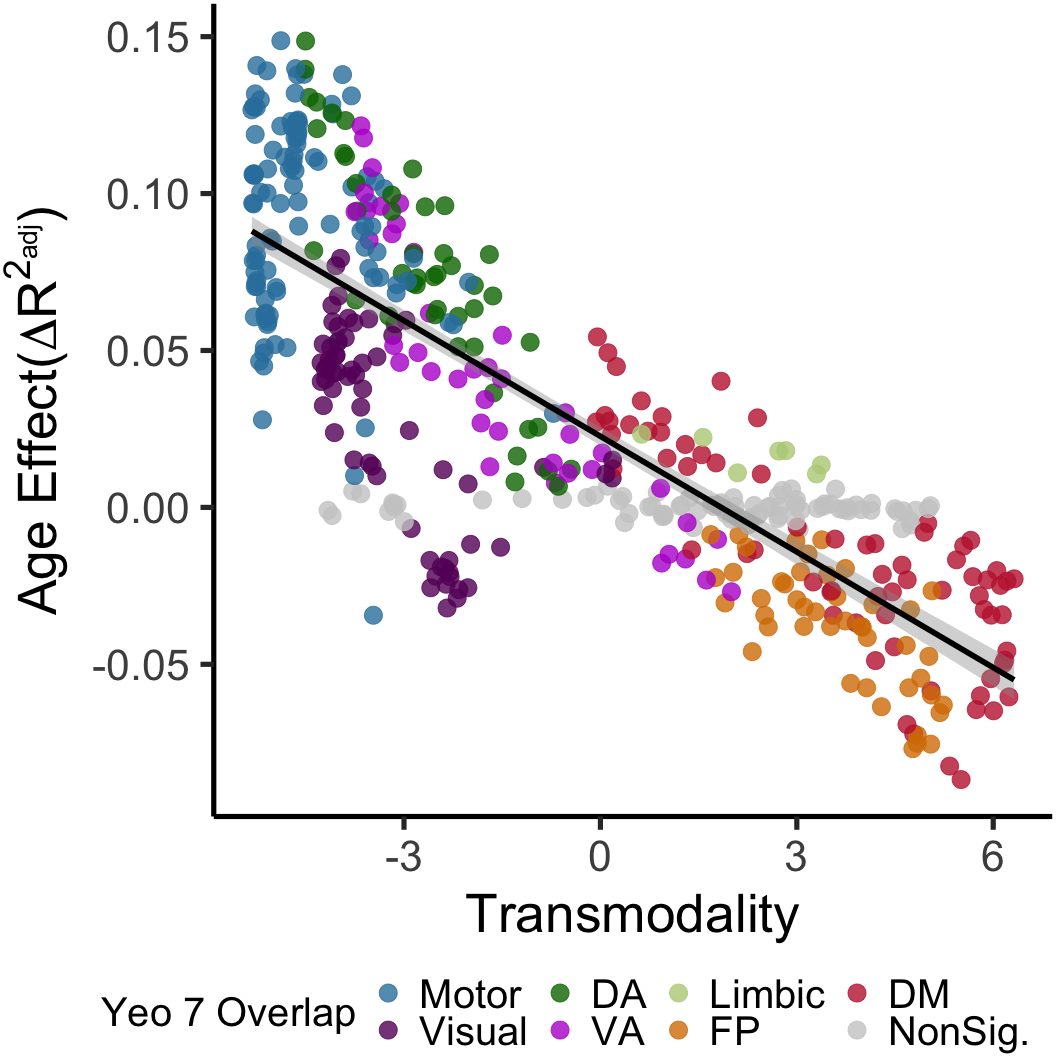
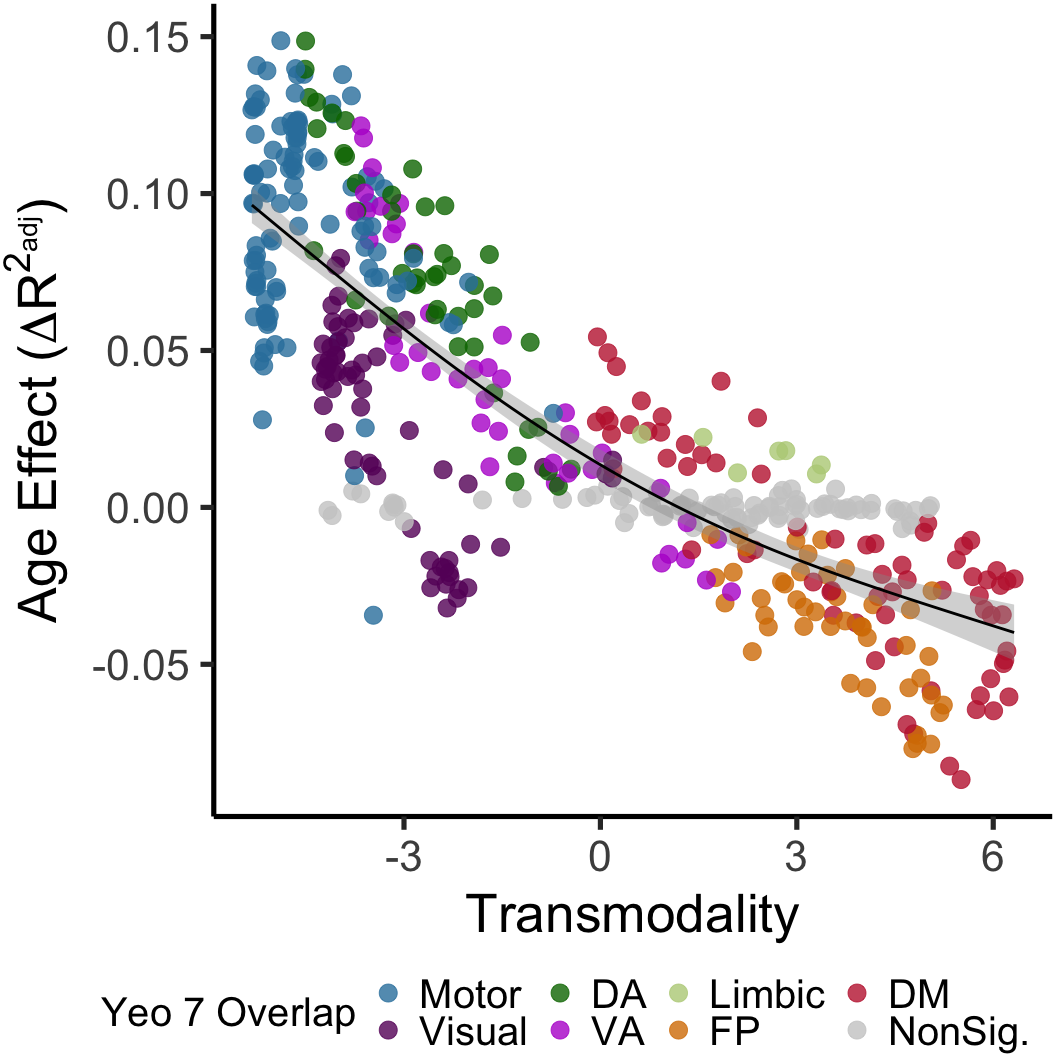
md updates - .rmd printout of averaged net-level age effects, sizing fixes, edge-level

Changed region(s): [[0.3438, 0.2812, 0.9688, 0.6562], [0.0, 0.1875, 0.0625, 0.5938], [0.2188, 0.1875, 0.3438, 0.2812]]

diff --git a/scripts/analyses/Network-level-age.md b/scripts/analyses/Network-level-age.md
@@ -330,6 +330,7 @@ covariates=" ~s(Age,k=3)+Sex+Motion"
 minAgeEst<-rep(0,length=length(masterdf[,indiv_nsegcols_ind]))
 maxAgeEst<-rep(0,length=length(masterdf[,indiv_nsegcols_ind]))
 SplineP<-rep(0,length=length(masterdf[,indiv_nsegcols_ind]))
+Avg_BW_Vector<-rep(0,length=length(masterdf[,indiv_nsegcols_ind]))
 InterceptVector10<-rep(0,length=length(masterdf[,indiv_nsegcols_ind]))
 InterceptVector21<-rep(0,length=length(masterdf[,indiv_nsegcols_ind]))
 derivInfo<-array(0,dim=c(464,200))
@@ -367,7 +368,9 @@ for (i in 1:(length(bwAvgCondf)-3)){
   form<-as.formula(paste("",x,"", covariates, sep=""))
   igam<-gam(formula = form,data=bwAvgCondf)
   SplineP[i]<-summary(igam)$s.pv
-  # changed to get intercept at 10 and 20 years old
+  # get average b/w con
+  Avg_BW_Vector[i]<-mean(bwAvgCondf[,i])
+  # get intercept at 10 and 21 years old
   InterceptVector10[i]<-predict.gam(igam,gamPredictMeAt10)
   InterceptVector21[i]<-predict.gam(igam,gamPredictMeAt21)
   derv<-derivatives(igam,term='Age')
@@ -408,15 +411,20 @@ bwdf$domnetvecSig[NL_sigVec]<-as.character(bwdf$domnetvec[NL_sigVec])
 # order for plot legend
 bwdf$domnetvecSig<-as.factor(bwdf$domnetvecSig)
 bwdf$domnetvecSig<-factor(bwdf$domnetvecSig,levels=c("Motor","Visual","DA","VA","Limbic","FP","DM","NonSig"),labels=c("Motor","Visual","DA","VA","Limbic","FP","DM","NonSig."))
+
+# stats for fig-gam
+Age_net_gam<-gam(avg_bw_deltaR2~s(tmvec,k=3),data=bwdf)
 ```
 
 ``` r
-ggplot(bwdf,aes(tmvec,avg_bw_deltaR2)) + geom_point(size=6,alpha=.8,aes(color=domnetvecSig))+ scale_color_manual(values=c('#3281ab','#670068','#007500','#b61ad0','#b8cf86','#d77d00','#c1253c','gray80')) + xlab("Transmodality") + ylab(expression(paste('Age Effect(',Delta,R^2[adj],')',sep=''))) +theme_classic(base_size = 40) +guides(color=guide_legend(title="Yeo 7 Overlap"))+theme(plot.margin=margin(b=3,t=.1,l=.1,r=.1, unit='cm'), legend.position=c(.42,-.24),legend.direction = "horizontal",legend.title=element_text(size=30),legend.text=element_text(size=30))+geom_smooth(method='lm',color='black',size=2)
+ggplot(bwdf,aes(tmvec,avg_bw_deltaR2)) + geom_point(size=6,alpha=.8,aes(color=domnetvecSig))+ scale_color_manual(values=c('#3281ab','#670068','#007500','#b61ad0','#b8cf86','#d77d00','#c1253c','gray80')) + xlab("Transmodality") + ylab(expression(paste('Age Effect (',Delta,R^2[adj],')',sep=''))) +theme_classic(base_size = 40) +guides(color=guide_legend(title="Yeo 7 Overlap"))+theme(plot.margin=margin(b=3,t=.1,l=.1,r=.1, unit='cm'), legend.position=c(.42,-.24),legend.direction = "horizontal",legend.title=element_text(size=30),legend.text=element_text(size=30))+geom_smooth(method='gam',formula = y~s(x,k=3),color='black')
 ```
 
-    ## `geom_smooth()` using formula 'y ~ x'
-
 ![](Network-level-age_files/figure-markdown_github/unnamed-chunk-8-1.png)
+
+``` r
+#+geom_smooth(method='lm',color='black',size=2)
+```
 
 ``` r
 # convert loop output to years format
@@ -676,3 +684,60 @@ geom_smooth(data=subset(bwdf,domnetvec17=='Somatomotor A'),method='gam',formula 
     ## which will replace the existing scale.
 
 ![](Network-level-age_files/figure-markdown_github/unnamed-chunk-16-1.png)
+
+``` r
+# section to write out each network's age effect at each scale. In matlab, each age effect of each network at each scale will be averaged for each vertex - according the discrete network membership of that vertex as each scale.
+
+####### initialize vectors
+# Average B/w Con.
+BW_Avg<-rep(0,464)
+# Estimated B/w Con. at 10 years old
+BW_interceptVec10<-rep(0,464)
+# Estimated B/w Con. at 21 years old
+BW_interceptVec21<-rep(0,464)
+# Estimated B/w Con * Age effect slope at 10 years old
+BW_deriv10vec<-rep(0,464)
+# Estimated B/w Con * Age effect slope at 16 years old
+BW_deriv16vec<-rep(0,464)
+# Estimated B/w Con * Age effect slope at 21 years old
+BW_deriv21vec<-rep(0,464)
+
+# use calculated InterceptVectors for intercepts
+BW_interceptVec10<-InterceptVector10
+BW_interceptVec21<-InterceptVector21
+BW_Avg<-Avg_BW_Vector
+
+    
+# use calculated deriv info for slopes, age range is 178 months
+# 10 y.o. is 22/178 months into the 200 point derivs age-range
+deriv.point.10<-round((22/178)*200)
+# 16 y.o. 82/178 months in
+deriv.point.16<-round((94/178)*200)
+# 21 y.o. is 142/178 months in
+deriv.point.21<-round((154/178)*200)
+#derivInfo
+BW_deriv10vec<-derivInfo[,deriv.point.10]
+BW_deriv16vec<-derivInfo[,deriv.point.16]
+BW_deriv21vec<-derivInfo[,deriv.point.21]
+
+
+# write em out as an effect vector for each scale: restart here 11/21
+for (K in 2:30){
+      K_start=((K-1)*(K))/2
+      K_end=(((K-1)*(K))/2)+K-1
+      Kind<-K_start:K_end
+      Intercept10=InterceptVector10[Kind]
+      Intercept21=InterceptVector21[Kind]
+      Avg=BW_Avg[Kind]
+      at10=BW_deriv10vec[Kind]
+      at16=BW_deriv16vec[Kind]
+      at21=BW_deriv21vec[Kind]
+      # write em out to cubic
+      write.table(Intercept10,paste('/cbica/projects/pinesParcels/results/EffectVecs/BW_InterceptAt10_k',K,sep=''),sep=',', col.names = F,quote = F,row.names=F)
+      write.table(Intercept21,paste('/cbica/projects/pinesParcels/results/EffectVecs/BW_InterceptAt21_k',K,sep=''),sep=',', col.names = F,quote = F,row.names=F)
+      write.table(Avg,paste('/cbica/projects/pinesParcels/results/EffectVecs/Avg_k',K,sep=''),sep=',', col.names = F,quote = F,row.names=F)
+      write.table(at10,paste('/cbica/projects/pinesParcels/results/EffectVecs/Deriv10yoAt',K,sep=''),sep=',', col.names = F,quote = F,row.names=F)
+      write.table(at16,paste('/cbica/projects/pinesParcels/results/EffectVecs/Deriv16yoAt',K,sep=''),sep=',', col.names = F,quote = F,row.names=F)
+      write.table(at21,paste('/cbica/projects/pinesParcels/results/EffectVecs/Deriv21yoAt',K,sep=''),sep=',', col.names = F,quote = F,row.names=F)
+}
+```
